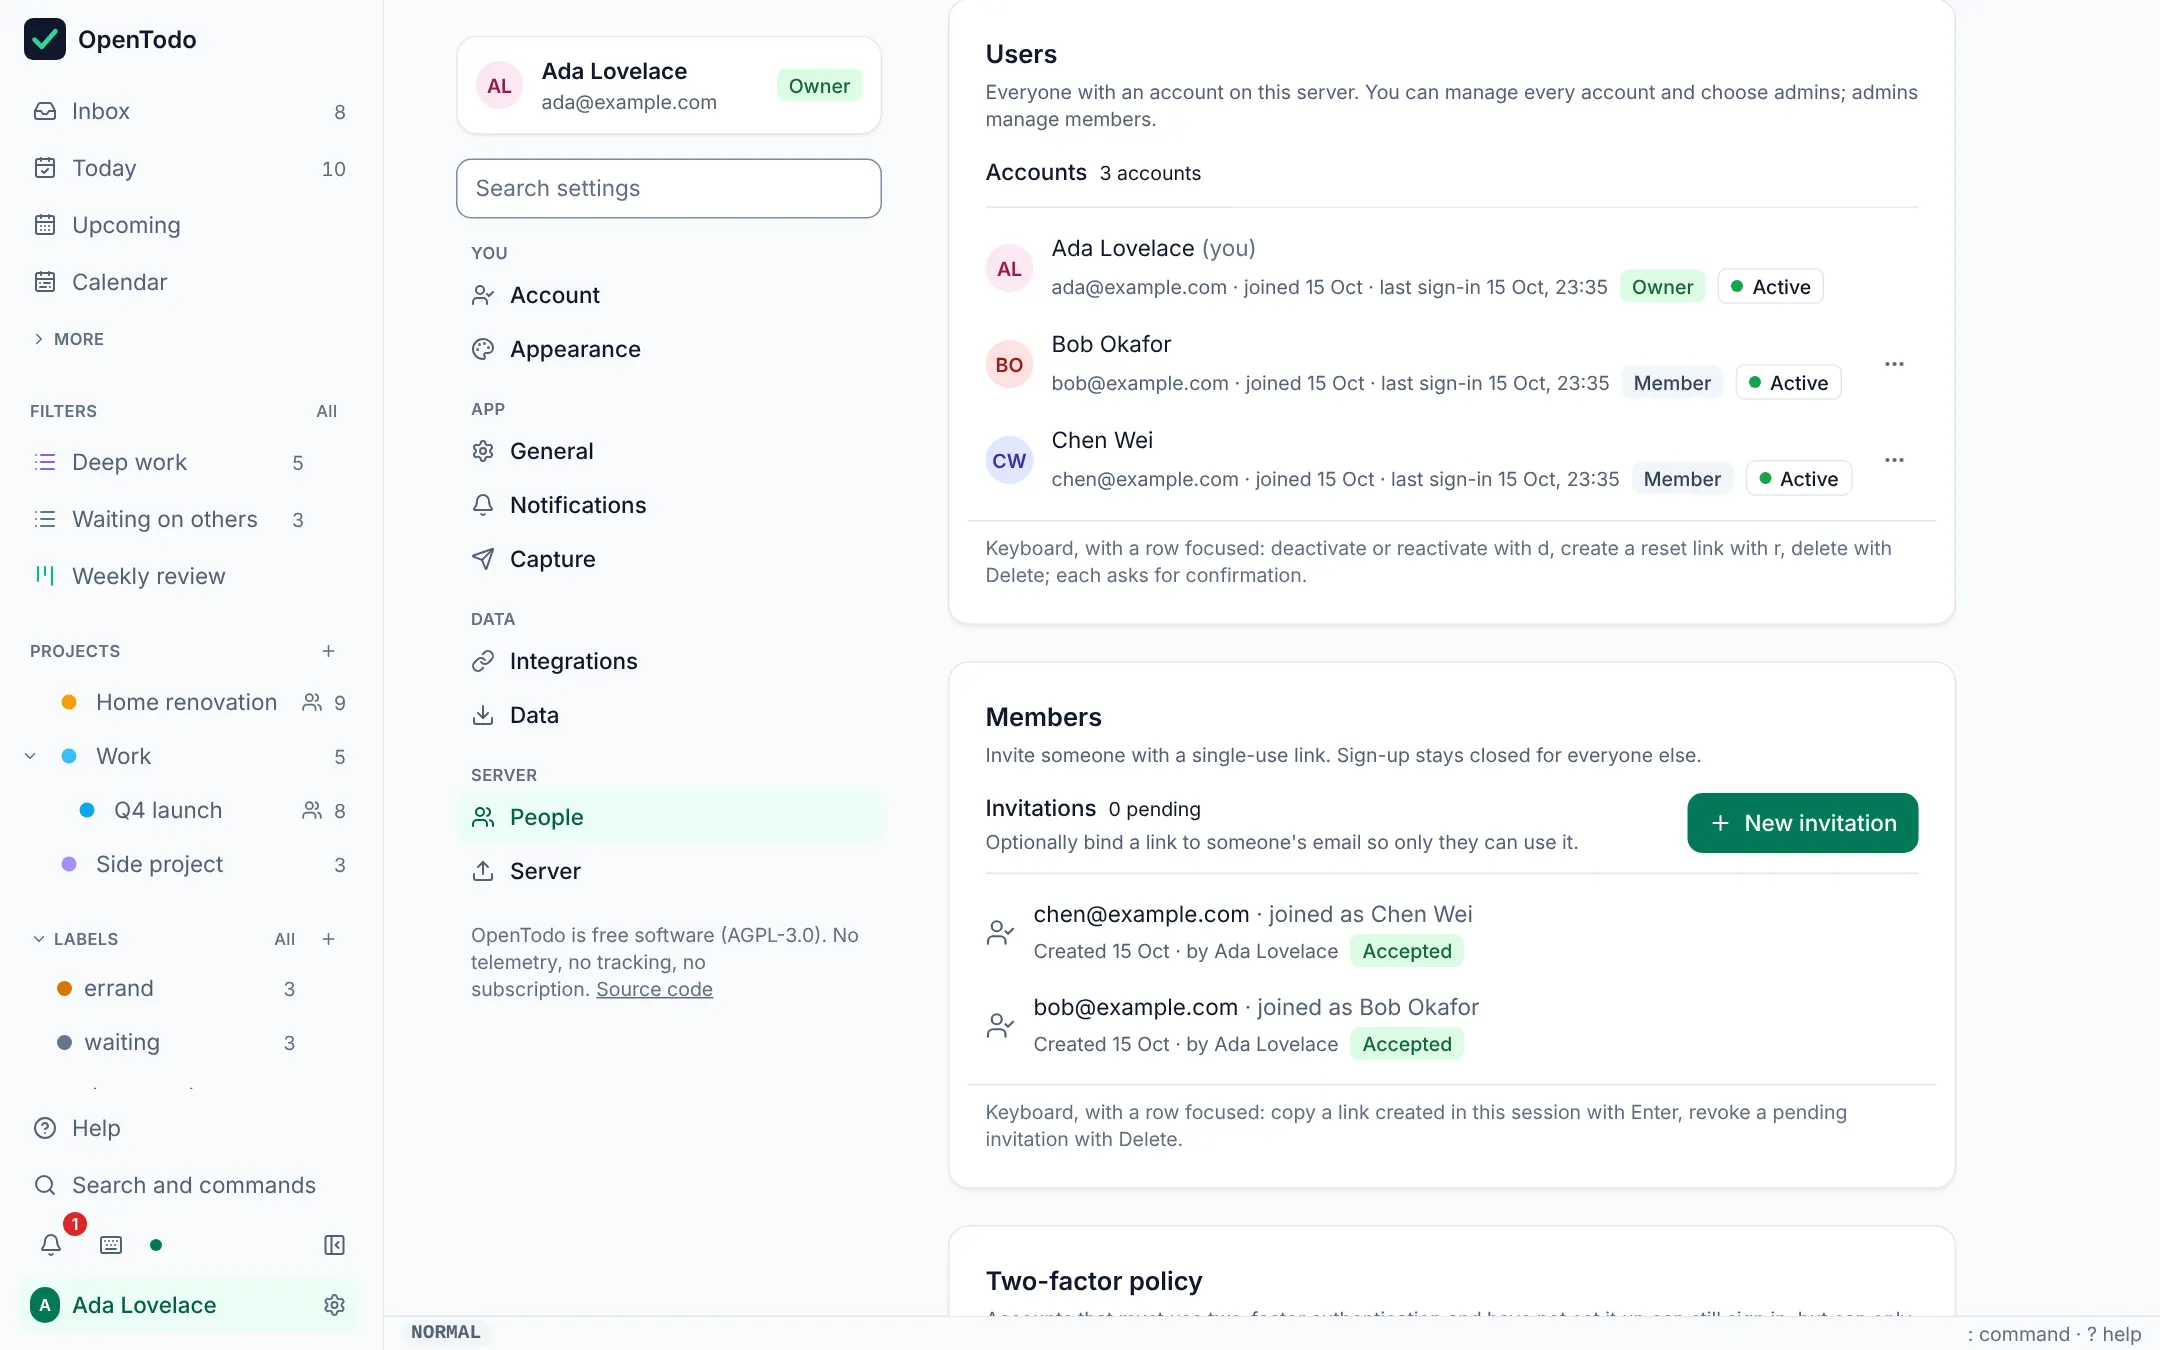
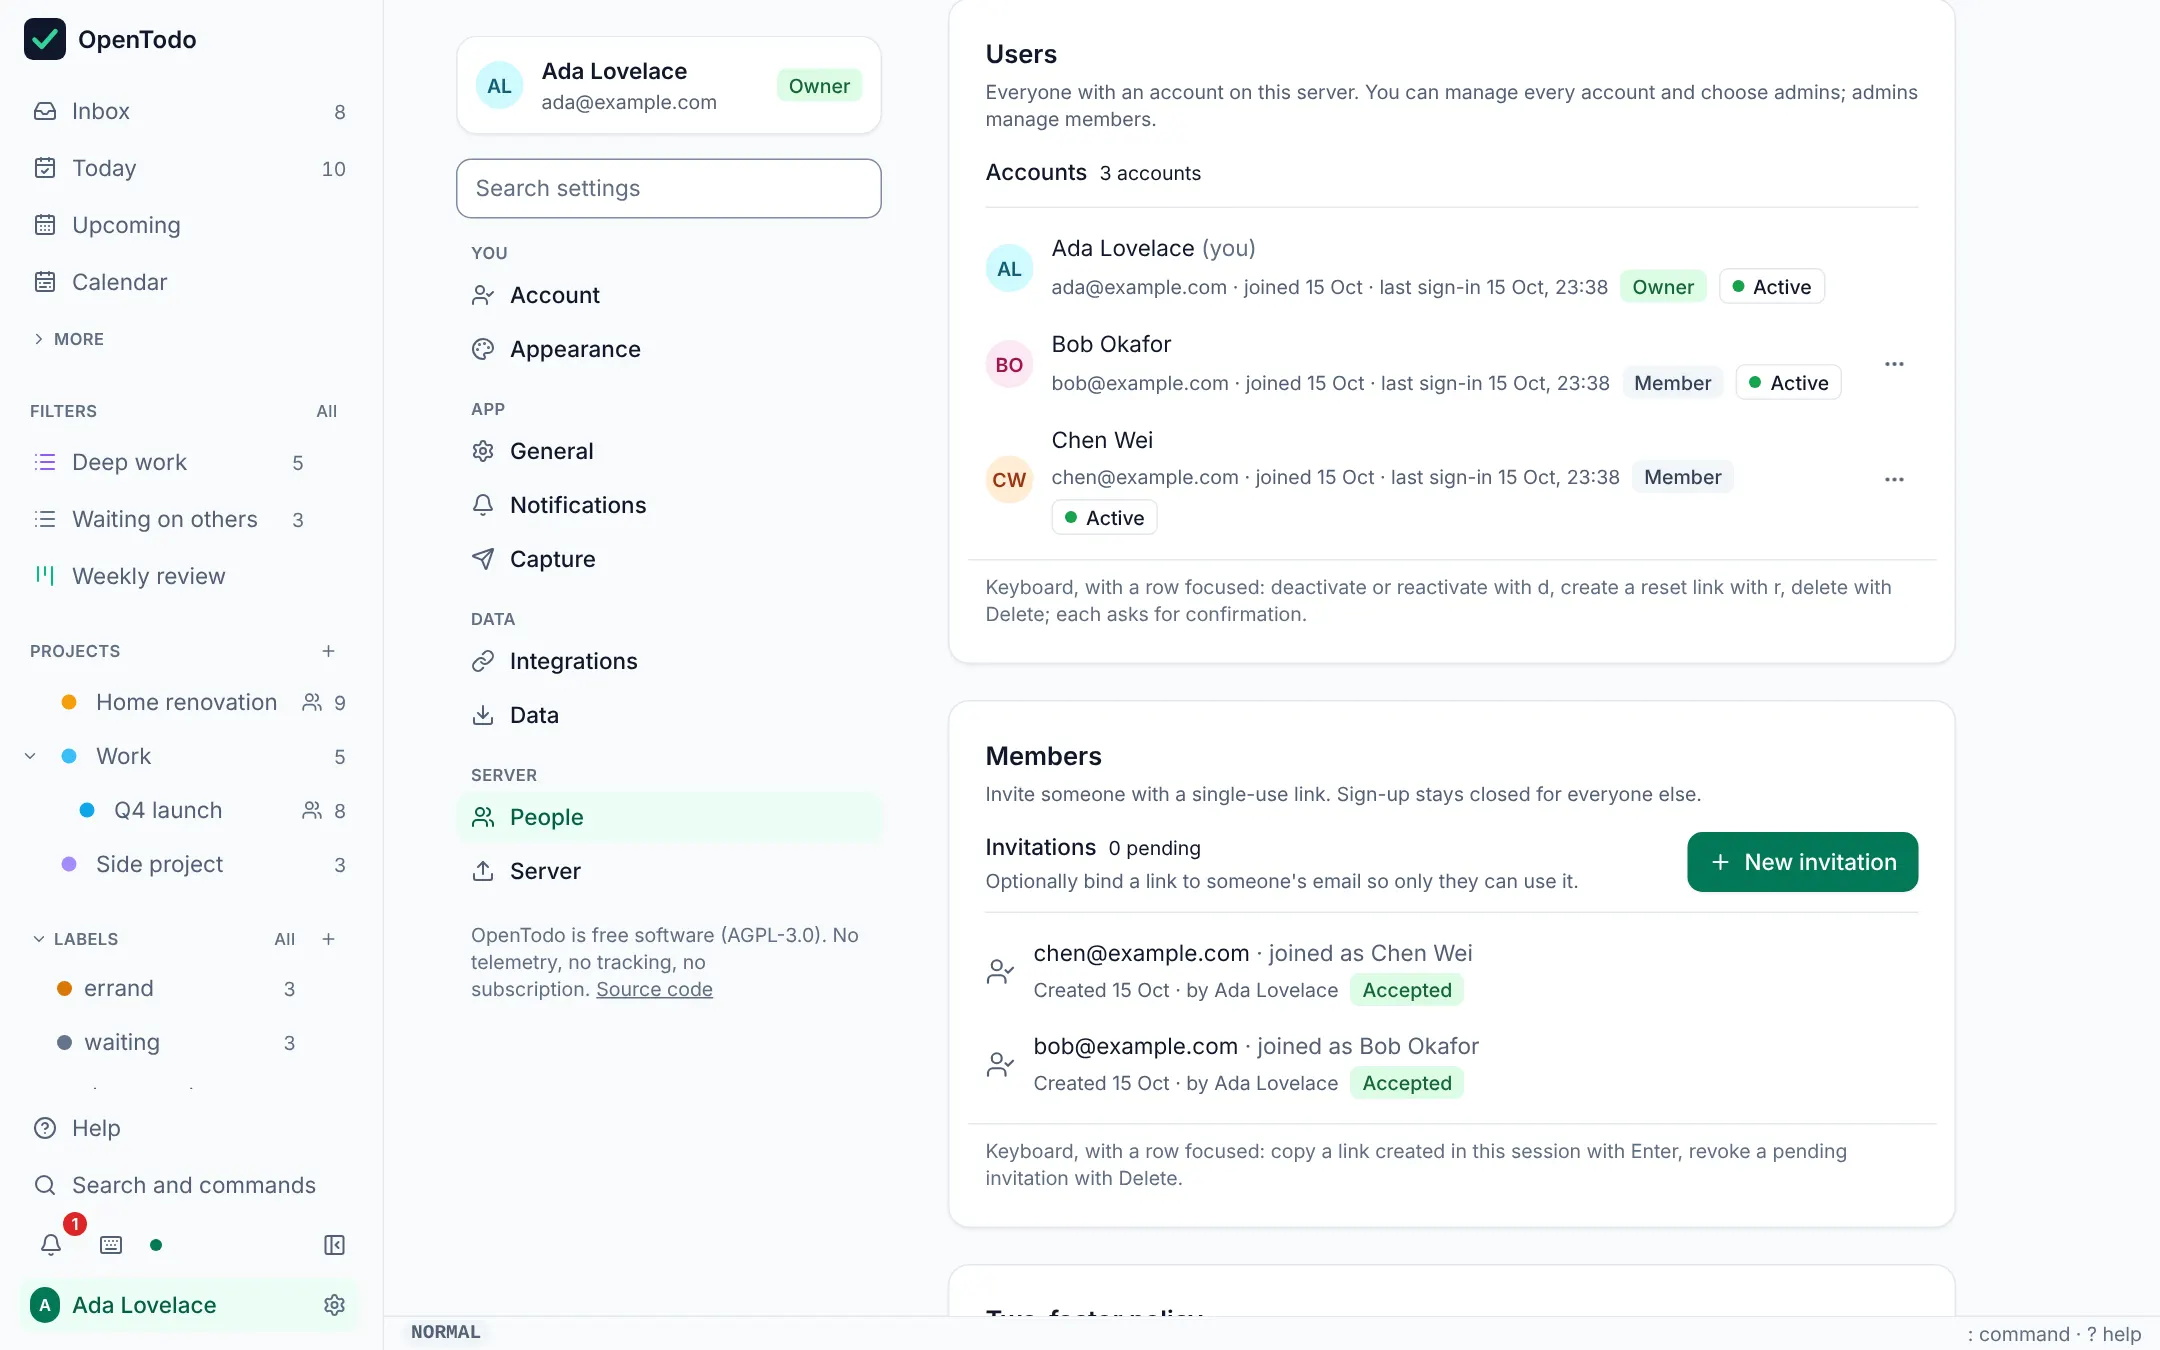
README and website screenshots from the rebuilt rows; group 8 integration done (task 8.11)
Captured by scripts/screenshots.mjs from a fresh server: the Today, project,
Day and phone shots the README embeds and every WebP the website bundle ships.
Verified on this branch: typecheck, the full web suite, go vet and go test, the
docs build and check, ui-lint, OpenSpec validation, the Chromium layout check at
390 and 768 px in both themes, the workbench a11y gate over 226 stories.

Claude-Session: https://claude.ai/code/session_01Un6F31pj3UdRJtLsBL8Uej

diff --git a/openspec/changes/ux-overhaul/tasks.md b/openspec/changes/ux-overhaul/tasks.md
@@ -89,7 +89,7 @@ Each group leaves `make check` green and the app usable. Groups 3 to 6 can proce
 - [x] 8.8 Empty the `NOT_YET_MIGRATED` list and remove the legacy `btn-*`, `.input` and `.kbd` classes from `index.css` with the test that fails if they return; verify with `npm test`, `npm run build` and the layout check.
 - [x] 8.9 Add `make screens`, the seeded-fixture screenshot script from the audit, and the before/after screenshot step to `CONTRIBUTING.md`; verify the target runs against a local server and writes the images.
 - [x] 8.10 Run the first-run flow: three-step card, Skip all, "Show me around" sample project via ordinary ops, `firstRun` stored with the preferences, empty states with action first and hints on fine pointers only; verify with `firstRun.test.tsx` (no card on a second device after sync, sample deletes like any project) and the getting-started guide updated.
-- [ ] 8.11 Final integration: run `make check`, the layout check and `make ui-check`, confirm every target in `UX-AUDIT.md` section 6 with the budget test and the screenshot pass, update `CHANGELOG.md` under Unreleased and `README.md` screenshots; verify all commands pass.
+- [x] 8.11 Final integration: run `make check`, the layout check and `make ui-check`, confirm every target in `UX-AUDIT.md` section 6 with the budget test and the screenshot pass, update `CHANGELOG.md` under Unreleased and `README.md` screenshots; verify all commands pass.
 
 ## Workflow follow-up
 
